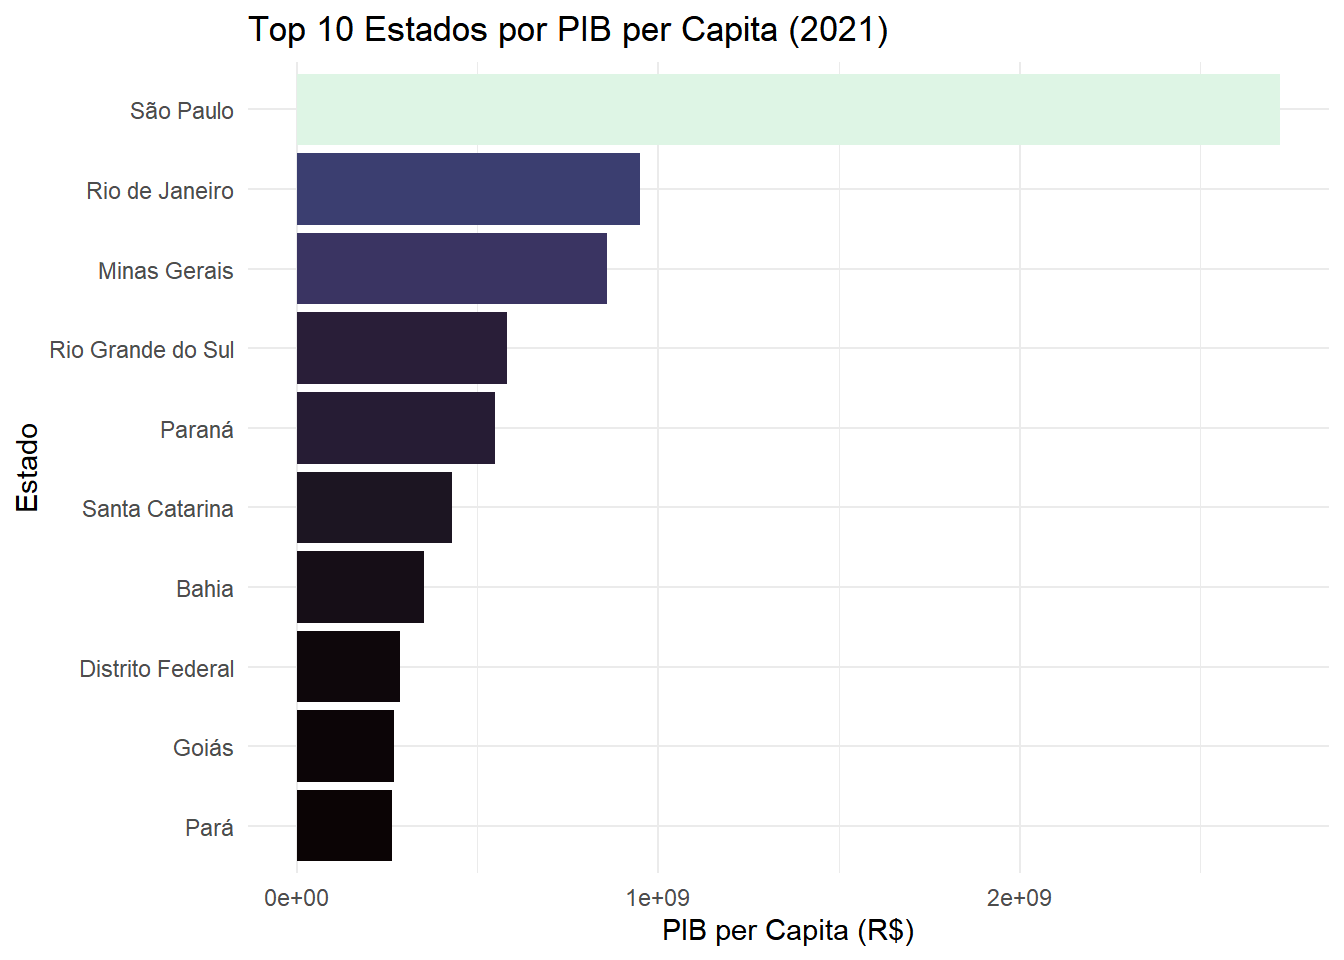
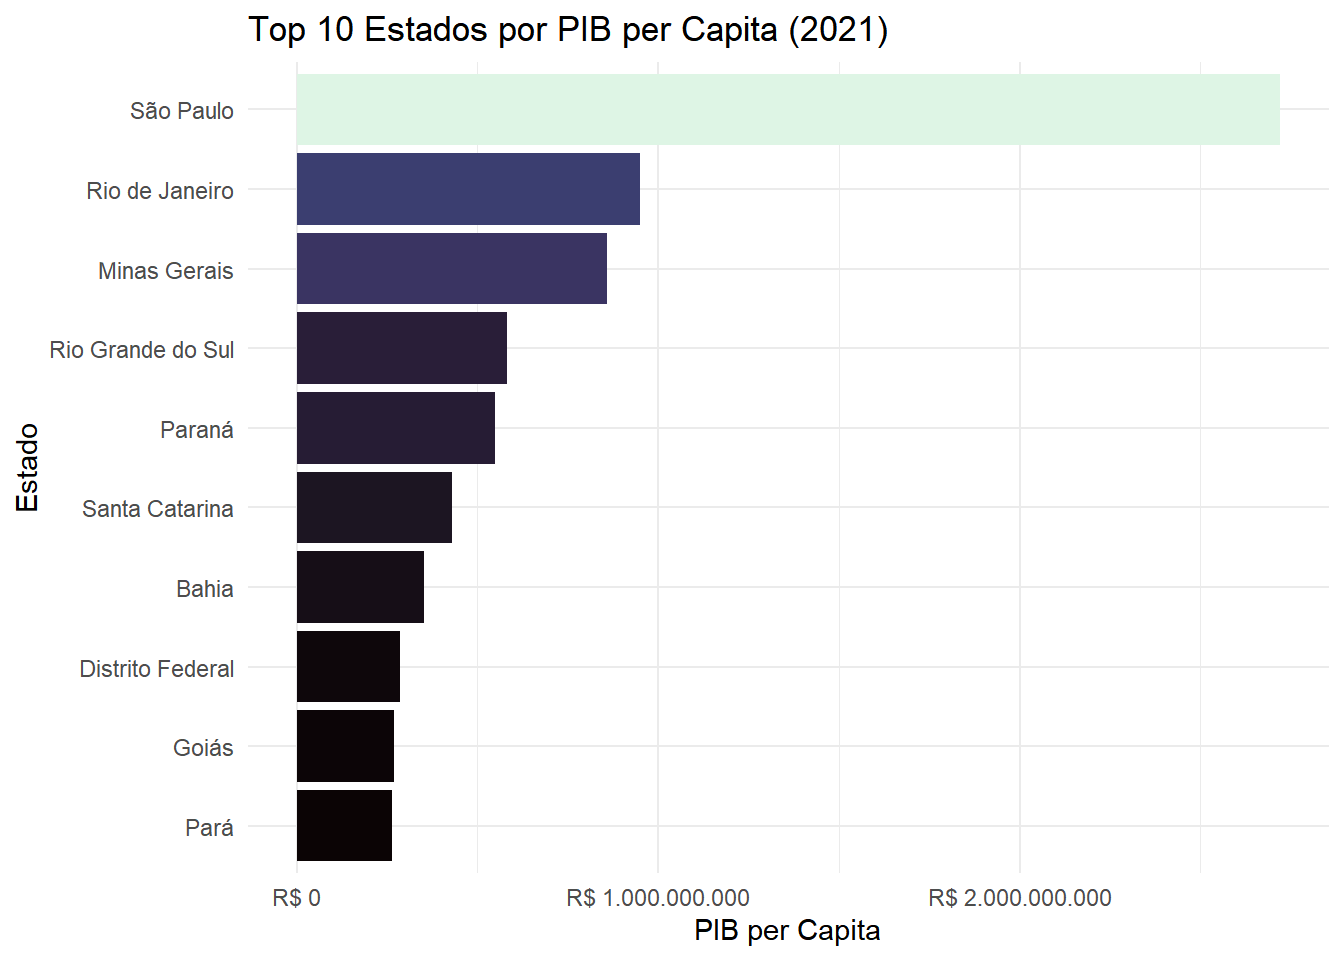
finalizando processoo

Changed region(s): [[0.4062, 0.9062, 0.6875, 1.0], [0.6875, 0.9062, 0.8438, 0.9688], [0.1875, 0.9062, 0.25, 0.9688]]

diff --git a/index.html b/index.html
@@ -7,7 +7,7 @@
 <meta name="viewport" content="width=device-width, initial-scale=1.0, user-scalable=yes">
 
 
-<title>index</title>
+<title>Produto Interno Bruto em 2021 por Estados</title>
 <style>
 /* Default styles provided by pandoc.
 ** See https://pandoc.org/MANUAL.html#variables-for-html for config info.
@@ -100,7 +100,7 @@ pre > code.sourceCode > span > a:first-child::before { text-decoration: underlin
 
 <header id="title-block-header" class="quarto-title-block default">
 <div class="quarto-title">
-<h1 class="title">index</h1>
+<h1 class="title">Produto Interno Bruto em 2021 por Estados</h1>
 </div>
 
 
@@ -117,9 +117,9 @@ pre > code.sourceCode > span > a:first-child::before { text-decoration: underlin
 </header>
 
 
-<section id="quarto" class="level2">
-<h2 class="anchored" data-anchor-id="quarto">Quarto</h2>
-<p>Quarto enables you to weave together content and executable code into a finished document. To learn more about Quarto see <a href="https://quarto.org" class="uri">https://quarto.org</a>.</p>
+<section id="avidade-hmtl" class="level2">
+<h2 class="anchored" data-anchor-id="avidade-hmtl">Avidade HMTL</h2>
+<p>Segue os codigos utilizados para gerar o site.</p>
 <div class="cell">
 <div class="code-copy-outer-scaffold"><div class="sourceCode cell-code" id="cb1"><pre class="sourceCode r code-with-copy"><code class="sourceCode r"><span id="cb1-1"><a href="#cb1-1" aria-hidden="true" tabindex="-1"></a><span class="fu">library</span>(sidrar)</span>
 <span id="cb1-2"><a href="#cb1-2" aria-hidden="true" tabindex="-1"></a><span class="fu">library</span>(tidyverse)</span></code></pre></div><button title="Copy to Clipboard" class="code-copy-button"><i class="bi"></i></button></div>
@@ -144,35 +144,46 @@ pre > code.sourceCode > span > a:first-child::before { text-decoration: underlin
 <pre><code>Linking to GEOS 3.14.1, GDAL 3.12.1, PROJ 9.7.1; sf_use_s2() is TRUE</code></pre>
 </div>
 <div class="code-copy-outer-scaffold"><div class="sourceCode cell-code" id="cb7"><pre class="sourceCode r code-with-copy"><code class="sourceCode r"><span id="cb7-1"><a href="#cb7-1" aria-hidden="true" tabindex="-1"></a><span class="fu">library</span>(reactable)</span>
-<span id="cb7-2"><a href="#cb7-2" aria-hidden="true" tabindex="-1"></a></span>
-<span id="cb7-3"><a href="#cb7-3" aria-hidden="true" tabindex="-1"></a><span class="co"># 1. Coleta de dados do SIDRA (Tabela 5938 - PIB per capita 2021)</span></span>
-<span id="cb7-4"><a href="#cb7-4" aria-hidden="true" tabindex="-1"></a><span class="co"># Tomando como exemplo o ano de 2021</span></span>
-<span id="cb7-5"><a href="#cb7-5" aria-hidden="true" tabindex="-1"></a>dados_sidra <span class="ot">&lt;-</span> <span class="fu">get_sidra</span>(<span class="at">x =</span> <span class="dv">5938</span>, <span class="at">variable =</span> <span class="dv">37</span>, <span class="at">period =</span> <span class="st">"2021"</span>, <span class="at">geo =</span> <span class="st">"State"</span>)</span></code></pre></div><button title="Copy to Clipboard" class="code-copy-button"><i class="bi"></i></button></div>
+<span id="cb7-2"><a href="#cb7-2" aria-hidden="true" tabindex="-1"></a><span class="fu">library</span>(scales) </span></code></pre></div><button title="Copy to Clipboard" class="code-copy-button"><i class="bi"></i></button></div>
+<div class="cell-output cell-output-stderr">
+<pre><code>
+Attaching package: 'scales'
+
+The following object is masked from 'package:purrr':
+
+    discard
+
+The following object is masked from 'package:readr':
+
+    col_factor</code></pre>
+</div>
+<div class="code-copy-outer-scaffold"><div class="sourceCode cell-code" id="cb9"><pre class="sourceCode r code-with-copy"><code class="sourceCode r"><span id="cb9-1"><a href="#cb9-1" aria-hidden="true" tabindex="-1"></a>dados_sidra <span class="ot">&lt;-</span> <span class="fu">get_sidra</span>(<span class="at">x =</span> <span class="dv">5938</span>, <span class="at">variable =</span> <span class="dv">37</span>, <span class="at">period =</span> <span class="st">"2021"</span>, <span class="at">geo =</span> <span class="st">"State"</span>)</span></code></pre></div><button title="Copy to Clipboard" class="code-copy-button"><i class="bi"></i></button></div>
 <div class="cell-output cell-output-stderr">
 <pre><code>Considering all categories once 'classific' was set to 'all' (default)</code></pre>
 </div>
-<div class="code-copy-outer-scaffold"><div class="sourceCode cell-code" id="cb9"><pre class="sourceCode r code-with-copy"><code class="sourceCode r"><span id="cb9-1"><a href="#cb9-1" aria-hidden="true" tabindex="-1"></a><span class="co"># Limpando os dados</span></span>
-<span id="cb9-2"><a href="#cb9-2" aria-hidden="true" tabindex="-1"></a>pib_estados <span class="ot">&lt;-</span> dados_sidra <span class="sc">%&gt;%</span></span>
-<span id="cb9-3"><a href="#cb9-3" aria-hidden="true" tabindex="-1"></a>  <span class="fu">select</span>(</span>
-<span id="cb9-4"><a href="#cb9-4" aria-hidden="true" tabindex="-1"></a>    <span class="at">cod_uf =</span> <span class="st">`</span><span class="at">Unidade da Federação (Código)</span><span class="st">`</span>,</span>
-<span id="cb9-5"><a href="#cb9-5" aria-hidden="true" tabindex="-1"></a>    <span class="at">estado =</span> <span class="st">`</span><span class="at">Unidade da Federação</span><span class="st">`</span>,</span>
-<span id="cb9-6"><a href="#cb9-6" aria-hidden="true" tabindex="-1"></a>    <span class="at">pib_per_capita =</span> Valor</span>
-<span id="cb9-7"><a href="#cb9-7" aria-hidden="true" tabindex="-1"></a>  ) <span class="sc">%&gt;%</span></span>
-<span id="cb9-8"><a href="#cb9-8" aria-hidden="true" tabindex="-1"></a>  <span class="fu">mutate</span>(<span class="at">cod_uf =</span> <span class="fu">as.numeric</span>(cod_uf))</span>
-<span id="cb9-9"><a href="#cb9-9" aria-hidden="true" tabindex="-1"></a></span>
-<span id="cb9-10"><a href="#cb9-10" aria-hidden="true" tabindex="-1"></a>top_10 <span class="ot">&lt;-</span> pib_estados <span class="sc">%&gt;%</span></span>
-<span id="cb9-11"><a href="#cb9-11" aria-hidden="true" tabindex="-1"></a>  <span class="fu">slice_max</span>(<span class="at">order_by =</span> pib_per_capita, <span class="at">n =</span> <span class="dv">10</span>)</span>
-<span id="cb9-12"><a href="#cb9-12" aria-hidden="true" tabindex="-1"></a></span>
-<span id="cb9-13"><a href="#cb9-13" aria-hidden="true" tabindex="-1"></a><span class="fu">ggplot</span>(top_10, <span class="fu">aes</span>(<span class="at">x =</span> <span class="fu">reorder</span>(estado, pib_per_capita), <span class="at">y =</span> pib_per_capita, <span class="at">fill =</span> pib_per_capita)) <span class="sc">+</span></span>
-<span id="cb9-14"><a href="#cb9-14" aria-hidden="true" tabindex="-1"></a>  <span class="fu">geom_col</span>(<span class="at">show.legend =</span> <span class="cn">FALSE</span>) <span class="sc">+</span></span>
-<span id="cb9-15"><a href="#cb9-15" aria-hidden="true" tabindex="-1"></a>  <span class="fu">coord_flip</span>() <span class="sc">+</span></span>
-<span id="cb9-16"><a href="#cb9-16" aria-hidden="true" tabindex="-1"></a>  <span class="fu">scale_fill_viridis_c</span>(<span class="at">option =</span> <span class="st">"mako"</span>) <span class="sc">+</span></span>
-<span id="cb9-17"><a href="#cb9-17" aria-hidden="true" tabindex="-1"></a>  <span class="fu">theme_minimal</span>() <span class="sc">+</span></span>
-<span id="cb9-18"><a href="#cb9-18" aria-hidden="true" tabindex="-1"></a>  <span class="fu">labs</span>(</span>
-<span id="cb9-19"><a href="#cb9-19" aria-hidden="true" tabindex="-1"></a>    <span class="at">title =</span> <span class="st">"Top 10 Estados por PIB per Capita (2021)"</span>,</span>
-<span id="cb9-20"><a href="#cb9-20" aria-hidden="true" tabindex="-1"></a>    <span class="at">x =</span> <span class="st">"Estado"</span>,</span>
-<span id="cb9-21"><a href="#cb9-21" aria-hidden="true" tabindex="-1"></a>    <span class="at">y =</span> <span class="st">"PIB per Capita (R$)"</span></span>
-<span id="cb9-22"><a href="#cb9-22" aria-hidden="true" tabindex="-1"></a>  )</span></code></pre></div><button title="Copy to Clipboard" class="code-copy-button"><i class="bi"></i></button></div>
+<div class="code-copy-outer-scaffold"><div class="sourceCode cell-code" id="cb11"><pre class="sourceCode r code-with-copy"><code class="sourceCode r"><span id="cb11-1"><a href="#cb11-1" aria-hidden="true" tabindex="-1"></a>pib_estados <span class="ot">&lt;-</span> dados_sidra <span class="sc">%&gt;%</span></span>
+<span id="cb11-2"><a href="#cb11-2" aria-hidden="true" tabindex="-1"></a>  <span class="fu">select</span>(</span>
+<span id="cb11-3"><a href="#cb11-3" aria-hidden="true" tabindex="-1"></a>    <span class="at">cod_uf =</span> <span class="st">`</span><span class="at">Unidade da Federação (Código)</span><span class="st">`</span>,</span>
+<span id="cb11-4"><a href="#cb11-4" aria-hidden="true" tabindex="-1"></a>    <span class="at">estado =</span> <span class="st">`</span><span class="at">Unidade da Federação</span><span class="st">`</span>,</span>
+<span id="cb11-5"><a href="#cb11-5" aria-hidden="true" tabindex="-1"></a>    <span class="at">pib_per_capita =</span> Valor</span>
+<span id="cb11-6"><a href="#cb11-6" aria-hidden="true" tabindex="-1"></a>  ) <span class="sc">%&gt;%</span></span>
+<span id="cb11-7"><a href="#cb11-7" aria-hidden="true" tabindex="-1"></a>  <span class="fu">mutate</span>(<span class="at">cod_uf =</span> <span class="fu">as.numeric</span>(cod_uf))</span>
+<span id="cb11-8"><a href="#cb11-8" aria-hidden="true" tabindex="-1"></a></span>
+<span id="cb11-9"><a href="#cb11-9" aria-hidden="true" tabindex="-1"></a>top_10 <span class="ot">&lt;-</span> pib_estados <span class="sc">%&gt;%</span></span>
+<span id="cb11-10"><a href="#cb11-10" aria-hidden="true" tabindex="-1"></a>  <span class="fu">slice_max</span>(<span class="at">order_by =</span> pib_per_capita, <span class="at">n =</span> <span class="dv">10</span>)</span>
+<span id="cb11-11"><a href="#cb11-11" aria-hidden="true" tabindex="-1"></a></span>
+<span id="cb11-12"><a href="#cb11-12" aria-hidden="true" tabindex="-1"></a></span>
+<span id="cb11-13"><a href="#cb11-13" aria-hidden="true" tabindex="-1"></a><span class="fu">ggplot</span>(top_10, <span class="fu">aes</span>(<span class="at">x =</span> <span class="fu">reorder</span>(estado, pib_per_capita), <span class="at">y =</span> pib_per_capita, <span class="at">fill =</span> pib_per_capita)) <span class="sc">+</span></span>
+<span id="cb11-14"><a href="#cb11-14" aria-hidden="true" tabindex="-1"></a>  <span class="fu">geom_col</span>(<span class="at">show.legend =</span> <span class="cn">FALSE</span>) <span class="sc">+</span></span>
+<span id="cb11-15"><a href="#cb11-15" aria-hidden="true" tabindex="-1"></a>  <span class="fu">coord_flip</span>() <span class="sc">+</span></span>
+<span id="cb11-16"><a href="#cb11-16" aria-hidden="true" tabindex="-1"></a>  <span class="fu">scale_fill_viridis_c</span>(<span class="at">option =</span> <span class="st">"mako"</span>) <span class="sc">+</span></span>
+<span id="cb11-17"><a href="#cb11-17" aria-hidden="true" tabindex="-1"></a>  <span class="fu">scale_y_continuous</span>(<span class="at">labels =</span> <span class="fu">label_currency</span>(<span class="at">prefix =</span> <span class="st">"R$ "</span>, <span class="at">big.mark =</span> <span class="st">"."</span>, <span class="at">decimal.mark =</span> <span class="st">","</span>)) <span class="sc">+</span></span>
+<span id="cb11-18"><a href="#cb11-18" aria-hidden="true" tabindex="-1"></a>  <span class="fu">theme_minimal</span>() <span class="sc">+</span></span>
+<span id="cb11-19"><a href="#cb11-19" aria-hidden="true" tabindex="-1"></a>  <span class="fu">labs</span>(</span>
+<span id="cb11-20"><a href="#cb11-20" aria-hidden="true" tabindex="-1"></a>    <span class="at">title =</span> <span class="st">"Top 10 Estados por PIB per Capita (2021)"</span>,</span>
+<span id="cb11-21"><a href="#cb11-21" aria-hidden="true" tabindex="-1"></a>    <span class="at">x =</span> <span class="st">"Estado"</span>,</span>
+<span id="cb11-22"><a href="#cb11-22" aria-hidden="true" tabindex="-1"></a>    <span class="at">y =</span> <span class="st">"PIB per Capita"</span></span>
+<span id="cb11-23"><a href="#cb11-23" aria-hidden="true" tabindex="-1"></a>  )</span></code></pre></div><button title="Copy to Clipboard" class="code-copy-button"><i class="bi"></i></button></div>
 <div class="cell-output-display">
 <div>
 <figure class="figure">
@@ -180,21 +191,25 @@ pre > code.sourceCode > span > a:first-child::before { text-decoration: underlin
 </figure>
 </div>
 </div>
-<div class="code-copy-outer-scaffold"><div class="sourceCode cell-code" id="cb10"><pre class="sourceCode r code-with-copy"><code class="sourceCode r"><span id="cb10-1"><a href="#cb10-1" aria-hidden="true" tabindex="-1"></a>mapa_estados <span class="ot">&lt;-</span> <span class="fu">read_state</span>(<span class="at">year =</span> <span class="dv">2020</span>, <span class="at">showProgress =</span> <span class="cn">FALSE</span>)</span></code></pre></div><button title="Copy to Clipboard" class="code-copy-button"><i class="bi"></i></button></div>
+<div class="code-copy-outer-scaffold"><div class="sourceCode cell-code" id="cb12"><pre class="sourceCode r code-with-copy"><code class="sourceCode r"><span id="cb12-1"><a href="#cb12-1" aria-hidden="true" tabindex="-1"></a>mapa_estados <span class="ot">&lt;-</span> <span class="fu">read_state</span>(<span class="at">year =</span> <span class="dv">2020</span>, <span class="at">showProgress =</span> <span class="cn">FALSE</span>)</span></code></pre></div><button title="Copy to Clipboard" class="code-copy-button"><i class="bi"></i></button></div>
 <div class="cell-output cell-output-stderr">
 <pre><code>Using year/date 2020</code></pre>
 </div>
-<div class="code-copy-outer-scaffold"><div class="sourceCode cell-code" id="cb12"><pre class="sourceCode r code-with-copy"><code class="sourceCode r"><span id="cb12-1"><a href="#cb12-1" aria-hidden="true" tabindex="-1"></a>mapa_dados <span class="ot">&lt;-</span> mapa_estados <span class="sc">%&gt;%</span></span>
-<span id="cb12-2"><a href="#cb12-2" aria-hidden="true" tabindex="-1"></a>  <span class="fu">left_join</span>(pib_estados, <span class="at">by =</span> <span class="fu">c</span>(<span class="st">"code_state"</span> <span class="ot">=</span> <span class="st">"cod_uf"</span>))</span>
-<span id="cb12-3"><a href="#cb12-3" aria-hidden="true" tabindex="-1"></a></span>
-<span id="cb12-4"><a href="#cb12-4" aria-hidden="true" tabindex="-1"></a><span class="fu">ggplot</span>(mapa_dados) <span class="sc">+</span></span>
-<span id="cb12-5"><a href="#cb12-5" aria-hidden="true" tabindex="-1"></a>  <span class="fu">geom_sf</span>(<span class="fu">aes</span>(<span class="at">fill =</span> pib_per_capita), <span class="at">color =</span> <span class="st">"white"</span>, <span class="at">size =</span> <span class="fl">0.1</span>) <span class="sc">+</span></span>
-<span id="cb12-6"><a href="#cb12-6" aria-hidden="true" tabindex="-1"></a>  <span class="fu">scale_fill_viridis_c</span>(<span class="at">name =</span> <span class="st">"R$"</span>, <span class="at">option =</span> <span class="st">"plasma"</span>) <span class="sc">+</span></span>
-<span id="cb12-7"><a href="#cb12-7" aria-hidden="true" tabindex="-1"></a>  <span class="fu">theme_void</span>() <span class="sc">+</span></span>
-<span id="cb12-8"><a href="#cb12-8" aria-hidden="true" tabindex="-1"></a>  <span class="fu">labs</span>(</span>
-<span id="cb12-9"><a href="#cb12-9" aria-hidden="true" tabindex="-1"></a>    <span class="at">title =</span> <span class="st">"PIB per Capita por Unidade da Federação"</span>,</span>
-<span id="cb12-10"><a href="#cb12-10" aria-hidden="true" tabindex="-1"></a>    <span class="at">subtitle =</span> <span class="st">"Ano de referência: 2021"</span></span>
-<span id="cb12-11"><a href="#cb12-11" aria-hidden="true" tabindex="-1"></a>  )</span></code></pre></div><button title="Copy to Clipboard" class="code-copy-button"><i class="bi"></i></button></div>
+<div class="code-copy-outer-scaffold"><div class="sourceCode cell-code" id="cb14"><pre class="sourceCode r code-with-copy"><code class="sourceCode r"><span id="cb14-1"><a href="#cb14-1" aria-hidden="true" tabindex="-1"></a>mapa_dados <span class="ot">&lt;-</span> mapa_estados <span class="sc">%&gt;%</span></span>
+<span id="cb14-2"><a href="#cb14-2" aria-hidden="true" tabindex="-1"></a>  <span class="fu">left_join</span>(pib_estados, <span class="at">by =</span> <span class="fu">c</span>(<span class="st">"code_state"</span> <span class="ot">=</span> <span class="st">"cod_uf"</span>))</span>
+<span id="cb14-3"><a href="#cb14-3" aria-hidden="true" tabindex="-1"></a></span>
+<span id="cb14-4"><a href="#cb14-4" aria-hidden="true" tabindex="-1"></a><span class="fu">ggplot</span>(mapa_dados) <span class="sc">+</span></span>
+<span id="cb14-5"><a href="#cb14-5" aria-hidden="true" tabindex="-1"></a>  <span class="fu">geom_sf</span>(<span class="fu">aes</span>(<span class="at">fill =</span> pib_per_capita), <span class="at">color =</span> <span class="st">"white"</span>, <span class="at">size =</span> <span class="fl">0.1</span>) <span class="sc">+</span></span>
+<span id="cb14-6"><a href="#cb14-6" aria-hidden="true" tabindex="-1"></a>  <span class="fu">scale_fill_viridis_c</span>(</span>
+<span id="cb14-7"><a href="#cb14-7" aria-hidden="true" tabindex="-1"></a>    <span class="at">name =</span> <span class="st">"PIB per Capita"</span>, </span>
+<span id="cb14-8"><a href="#cb14-8" aria-hidden="true" tabindex="-1"></a>    <span class="at">option =</span> <span class="st">"plasma"</span>,</span>
+<span id="cb14-9"><a href="#cb14-9" aria-hidden="true" tabindex="-1"></a>    <span class="at">labels =</span> <span class="fu">label_currency</span>(<span class="at">prefix =</span> <span class="st">"R$ "</span>, <span class="at">big.mark =</span> <span class="st">"."</span>, <span class="at">decimal.mark =</span> <span class="st">","</span>)</span>
+<span id="cb14-10"><a href="#cb14-10" aria-hidden="true" tabindex="-1"></a>  ) <span class="sc">+</span></span>
+<span id="cb14-11"><a href="#cb14-11" aria-hidden="true" tabindex="-1"></a>  <span class="fu">theme_void</span>() <span class="sc">+</span></span>
+<span id="cb14-12"><a href="#cb14-12" aria-hidden="true" tabindex="-1"></a>  <span class="fu">labs</span>(</span>
+<span id="cb14-13"><a href="#cb14-13" aria-hidden="true" tabindex="-1"></a>    <span class="at">title =</span> <span class="st">"PIB per Capita por Unidade da Federação"</span>,</span>
+<span id="cb14-14"><a href="#cb14-14" aria-hidden="true" tabindex="-1"></a>    <span class="at">subtitle =</span> <span class="st">"Ano de referência: 2021"</span></span>
+<span id="cb14-15"><a href="#cb14-15" aria-hidden="true" tabindex="-1"></a>  )</span></code></pre></div><button title="Copy to Clipboard" class="code-copy-button"><i class="bi"></i></button></div>
 <div class="cell-output-display">
 <div>
 <figure class="figure">
@@ -202,16 +217,19 @@ pre > code.sourceCode > span > a:first-child::before { text-decoration: underlin
 </figure>
 </div>
 </div>
-<div class="code-copy-outer-scaffold"><div class="sourceCode cell-code" id="cb13"><pre class="sourceCode r code-with-copy"><code class="sourceCode r"><span id="cb13-1"><a href="#cb13-1" aria-hidden="true" tabindex="-1"></a><span class="fu">reactable</span>(</span>
-<span id="cb13-2"><a href="#cb13-2" aria-hidden="true" tabindex="-1"></a>  pib_estados <span class="sc">%&gt;%</span> <span class="fu">select</span>(<span class="at">Estado =</span> estado, <span class="st">'PIB per Capita (R$)'</span> <span class="ot">=</span> pib_per_capita),</span>
-<span id="cb13-3"><a href="#cb13-3" aria-hidden="true" tabindex="-1"></a>  <span class="at">searchable =</span> <span class="cn">FALSE</span>,</span>
-<span id="cb13-4"><a href="#cb13-4" aria-hidden="true" tabindex="-1"></a>  <span class="at">striped =</span> <span class="cn">TRUE</span>,</span>
-<span id="cb13-5"><a href="#cb13-5" aria-hidden="true" tabindex="-1"></a>  <span class="at">filterable =</span> <span class="cn">TRUE</span>,</span>
-<span id="cb13-6"><a href="#cb13-6" aria-hidden="true" tabindex="-1"></a>  <span class="at">defaultPageSize =</span> <span class="dv">5</span></span>
-<span id="cb13-7"><a href="#cb13-7" aria-hidden="true" tabindex="-1"></a>)</span></code></pre></div><button title="Copy to Clipboard" class="code-copy-button"><i class="bi"></i></button></div>
+<div class="code-copy-outer-scaffold"><div class="sourceCode cell-code" id="cb15"><pre class="sourceCode r code-with-copy"><code class="sourceCode r"><span id="cb15-1"><a href="#cb15-1" aria-hidden="true" tabindex="-1"></a><span class="fu">reactable</span>(</span>
+<span id="cb15-2"><a href="#cb15-2" aria-hidden="true" tabindex="-1"></a>  pib_estados <span class="sc">%&gt;%</span> <span class="fu">select</span>(<span class="at">Estado =</span> estado, <span class="st">`</span><span class="at">PIB per Capita (R$)</span><span class="st">`</span> <span class="ot">=</span> pib_per_capita),</span>
+<span id="cb15-3"><a href="#cb15-3" aria-hidden="true" tabindex="-1"></a>  <span class="at">searchable =</span> <span class="cn">FALSE</span>,</span>
+<span id="cb15-4"><a href="#cb15-4" aria-hidden="true" tabindex="-1"></a>  <span class="at">striped =</span> <span class="cn">TRUE</span>,</span>
+<span id="cb15-5"><a href="#cb15-5" aria-hidden="true" tabindex="-1"></a>  <span class="at">filterable =</span> <span class="cn">TRUE</span>,</span>
+<span id="cb15-6"><a href="#cb15-6" aria-hidden="true" tabindex="-1"></a>  <span class="at">defaultPageSize =</span> <span class="dv">5</span>,</span>
+<span id="cb15-7"><a href="#cb15-7" aria-hidden="true" tabindex="-1"></a>  <span class="at">columns =</span> <span class="fu">list</span>(</span>
+<span id="cb15-8"><a href="#cb15-8" aria-hidden="true" tabindex="-1"></a>    <span class="st">`</span><span class="at">PIB per Capita (R$)</span><span class="st">`</span> <span class="ot">=</span> <span class="fu">colDef</span>(<span class="at">format =</span> <span class="fu">colFormat</span>(<span class="at">prefix =</span> <span class="st">"R$ "</span>, <span class="at">separators =</span> <span class="cn">TRUE</span>, <span class="at">loc =</span> <span class="st">"pt-BR"</span>))</span>
+<span id="cb15-9"><a href="#cb15-9" aria-hidden="true" tabindex="-1"></a>  )</span>
+<span id="cb15-10"><a href="#cb15-10" aria-hidden="true" tabindex="-1"></a>)</span></code></pre></div><button title="Copy to Clipboard" class="code-copy-button"><i class="bi"></i></button></div>
 <div class="cell-output-display">
-<div class="reactable html-widget html-fill-item" id="htmlwidget-0c1748023b3967a42eaf" style="width:auto;height:auto;"></div>
-<script type="application/json" data-for="htmlwidget-0c1748023b3967a42eaf">{"x":{"tag":{"name":"Reactable","attribs":{"data":{"Estado":["Rondônia","Acre","Amazonas","Roraima","Pará","Amapá","Tocantins","Maranhão","Piauí","Ceará","Rio Grande do Norte","Paraíba","Pernambuco","Alagoas","Sergipe","Bahia","Minas Gerais","Espírito Santo","Rio de Janeiro","São Paulo","Paraná","Santa Catarina","Rio Grande do Sul","Mato Grosso do Sul","Mato Grosso","Goiás","Distrito Federal"],"PIB per Capita (R$)":[58170096,21374440,131531038,18202579,262904979,20099851,51780764,124980720,64028303,194884802,80180733,77470331,220813522,76265620,51861397,352617852,857593214,186336505,949300770,2719751231,549973062,428570889,581283677,142203766,233390203,269627874,286943782]},"columns":[{"id":"Estado","name":"Estado","type":"character"},{"id":"PIB per Capita (R$)","name":"PIB per Capita (R$)","type":"numeric"}],"filterable":true,"defaultPageSize":5,"striped":true,"dataKey":"409bb1400406ddb81be577db18c56d6b"},"children":[]},"class":"reactR_markup"},"evals":[],"jsHooks":[]}</script>
+<div class="reactable html-widget html-fill-item" id="htmlwidget-85cdac115af593332d95" style="width:auto;height:auto;"></div>
+<script type="application/json" data-for="htmlwidget-85cdac115af593332d95">{"x":{"tag":{"name":"Reactable","attribs":{"data":{"Estado":["Rondônia","Acre","Amazonas","Roraima","Pará","Amapá","Tocantins","Maranhão","Piauí","Ceará","Rio Grande do Norte","Paraíba","Pernambuco","Alagoas","Sergipe","Bahia","Minas Gerais","Espírito Santo","Rio de Janeiro","São Paulo","Paraná","Santa Catarina","Rio Grande do Sul","Mato Grosso do Sul","Mato Grosso","Goiás","Distrito Federal"],"PIB per Capita (R$)":[[phone redacted],[phone redacted],[phone redacted],[phone redacted],[phone redacted],[phone redacted],[phone redacted],[phone redacted],[phone redacted],[phone redacted],[phone redacted],[phone redacted],[phone redacted],[phone redacted],[phone redacted],[phone redacted],[phone redacted],[phone redacted],[phone redacted],[phone redacted],[phone redacted],[phone redacted],[phone redacted],[phone redacted],[phone redacted],[phone redacted],[phone redacted]]},"columns":[{"id":"Estado","name":"Estado","type":"character"},{"id":"PIB per Capita (R$)","name":"PIB per Capita (R$)","type":"numeric","format":{"cell":{"prefix":"R$ ","separators":true,"locales":"pt-BR"},"aggregated":{"prefix":"R$ ","separators":true,"locales":"pt-BR"}}}],"filterable":true,"defaultPageSize":5,"striped":true,"dataKey":"7eb806f5cbcc467e9deb62c4fb84b176"},"children":[]},"class":"reactR_markup"},"evals":[],"jsHooks":[]}</script>
 </div>
 </div>
 </section>